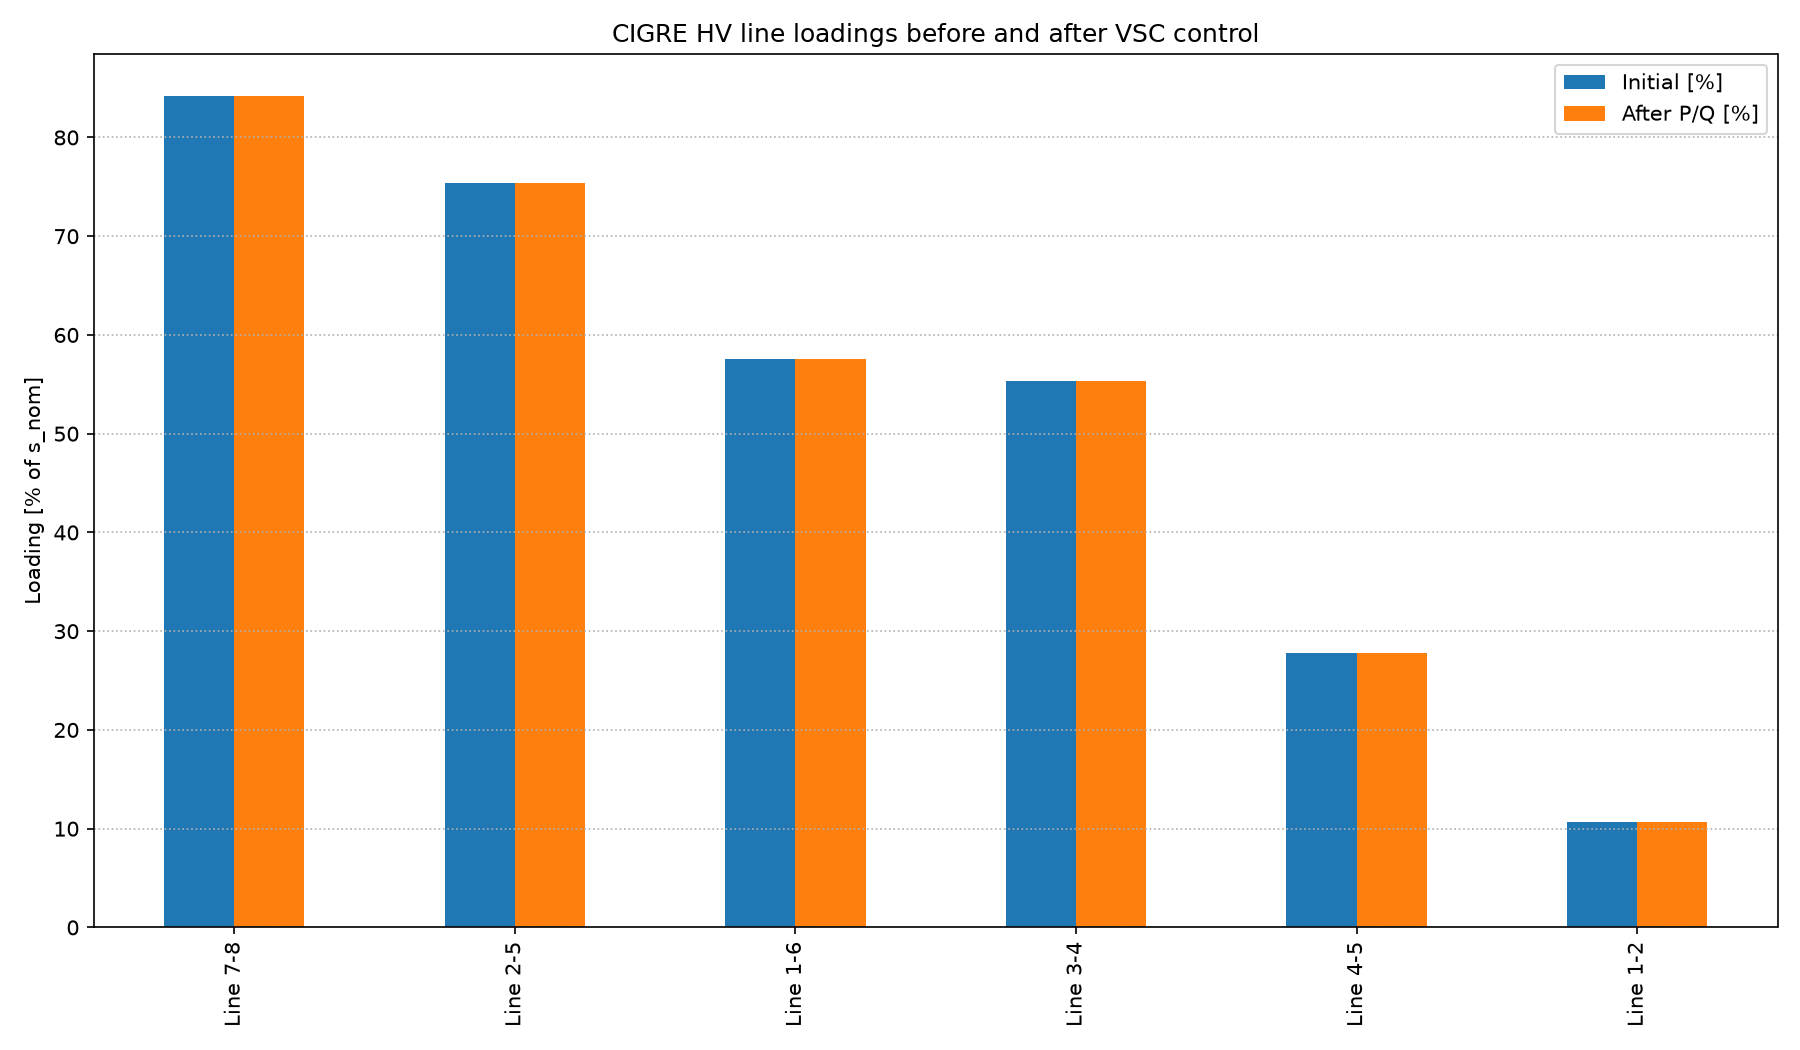
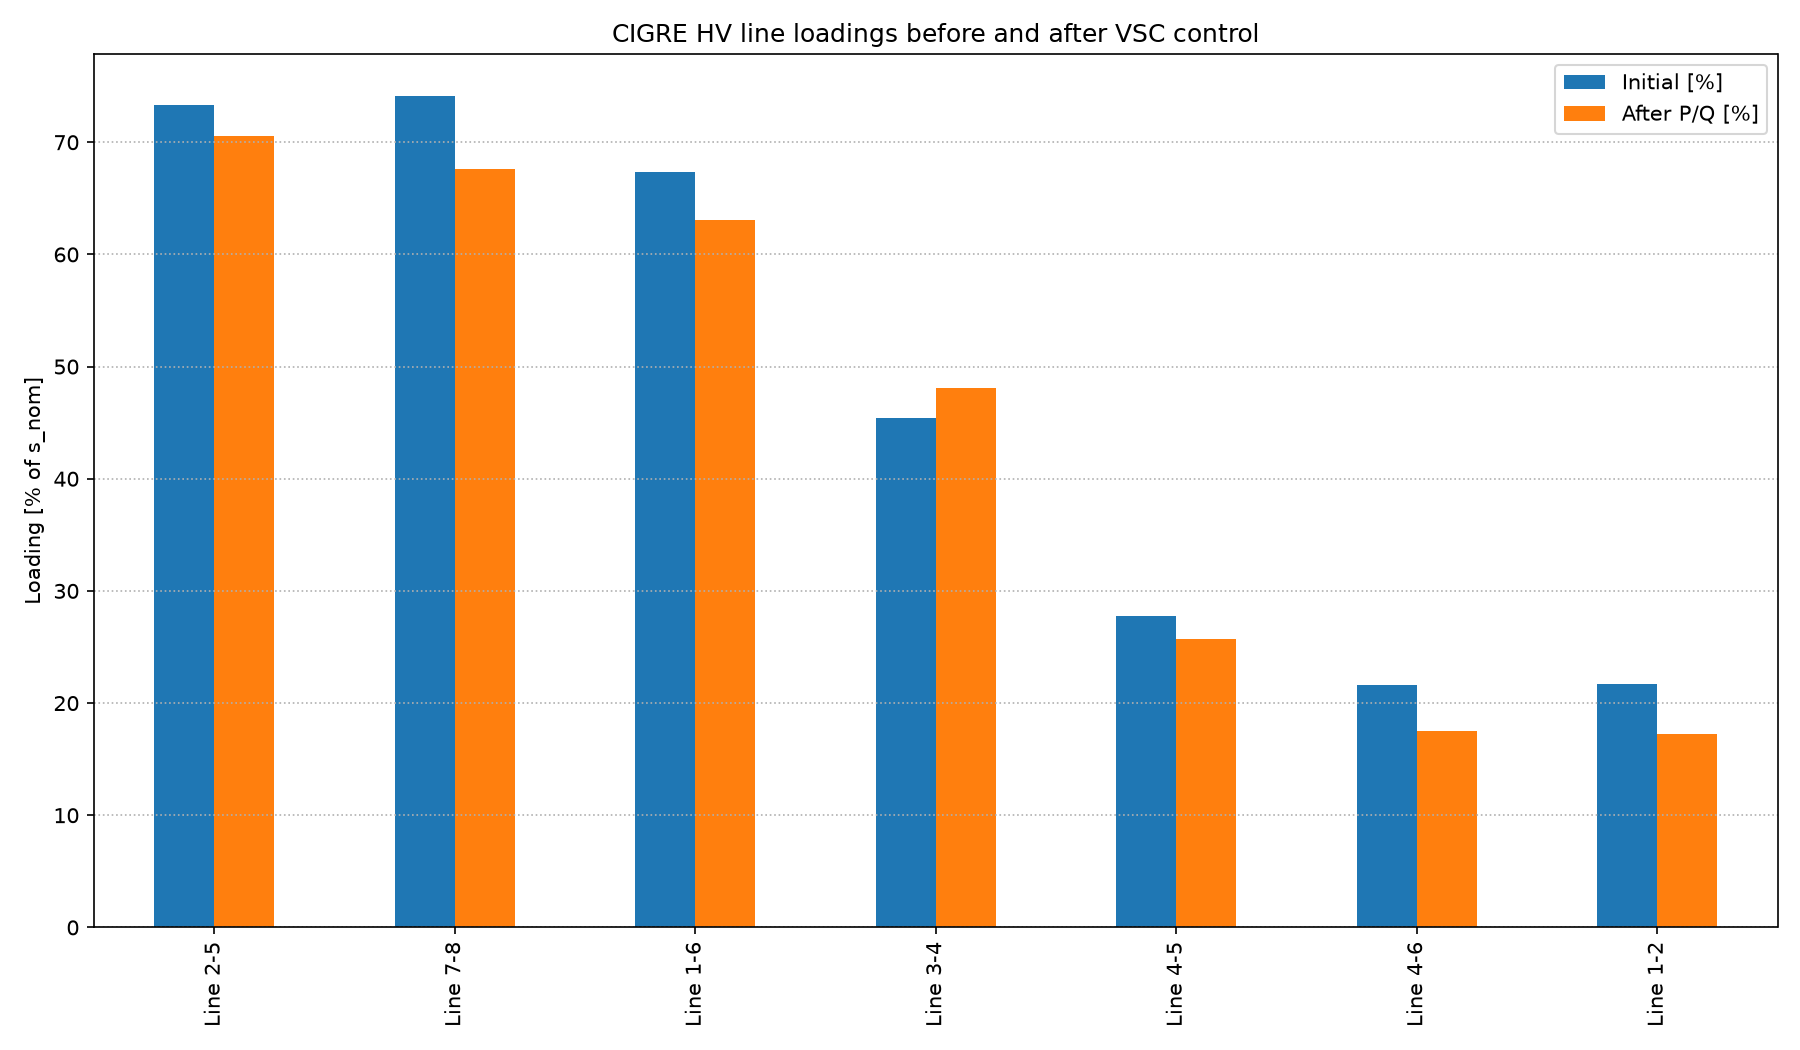
updated cigre benchmark grid in order to return to nearly similar values as initially

diff --git a/examples/cigre_benchmark_grid.py b/examples/cigre_benchmark_grid.py
@@ -1,5 +1,7 @@
-"""CIGRE HV with a VHL between Bus 7 and Bus 8.
+"""
+CIGRE HV Case 0 baseline, then VHL between Bus 7 and Bus 8.
 
+Case 0 is CSV-only AC PF (no Link/VSC), checked against thesis Tables 4.6 / 5.1 / 5.2.
 Combined P/Q control goes through VSCController. P-opt is P_Optimizer_V2 (SCIP),
 not linopy/Gurobi. N-1 is the heuristic in n1_guard.py, switched in ControllerConfig.
 
@@ -17,38 +19,111 @@ _REPO_ROOT = Path(__file__).resolve().parents[1]
 if str(_REPO_ROOT) not in sys.path:
     sys.path.insert(0, str(_REPO_ROOT))
 
-import matplotlib
+import matplotlib  # noqa: E402
 
 matplotlib.use("Agg")
 
-import matplotlib.pyplot as plt
-import numpy as np
-import pandas as pd
-import pypsa
+import matplotlib.pyplot as plt  # noqa: E402
+import numpy as np  # noqa: E402
+import pandas as pd  # noqa: E402
 
-from combined_control.VSCController import ControllerConfig, VSCController
+import pypsa  # noqa: E402
+from combined_control.VSCController import (  # noqa: E402
+    ControllerConfig,
+    VSCController,
+)
 
 CIGRE_CSV_DIR = Path(__file__).resolve().parent / "networks" / "cigre-hv-benchmark"
 
+# Thesis Table 4.6 — voltage magnitude [p.u.] and angle [deg]
+TABLE_46_V = pd.Series(
+    {
+        "Bus 1": 1.032,
+        "Bus 2": 1.006,
+        "Bus 3": 0.996,
+        "Bus 4": 0.950,
+        "Bus 5": 0.952,
+        "Bus 6": 0.986,
+        "Bus 7": 1.043,
+        "Bus 8": 1.042,
+        "Bus 9": 1.030,
+        "Bus 10": 1.030,
+        "Bus 11": 1.030,
+        "Bus 12": 1.030,
+    }
+)
+TABLE_46_ANG = pd.Series(
+    {
+        "Bus 1": -3.7,
+        "Bus 2": -2.0,
+        "Bus 3": -34.4,
+        "Bus 4": -39.5,
+        "Bus 5": -29.1,
+        "Bus 6": -32.1,
+        "Bus 7": -6.2,
+        "Bus 8": -31.9,
+        "Bus 9": 0.0,
+        "Bus 10": 1.6,
+        "Bus 11": -33.0,
+        "Bus 12": -27.7,
+    }
+)
+
+# Thesis Table 5.1 — Case 0 line loadings [%]; 3-4a/b → combined Line 3-4 at s_nom=500
+TABLE_51_LINE = pd.Series(
+    {
+        "Line 1-2": 21.80,
+        "Line 1-6": 67.40,
+        "Line 2-5": 73.20,
+        "Line 3-4": 45.58,
+        "Line 4-5": 27.78,
+        "Line 4-6": 21.63,
+        "Line 7-8": 74.21,
+    }
+)
+
+# Thesis Table 5.2 — Case 0 transformer loadings [%]
+TABLE_52_TRAFO = pd.Series(
+    {
+        "Transformer 1-7": 37.10,
+        "Transformer 3-8": 34.90,
+        "Transformer 9-1": 52.92,
+        "Transformer 10-2": 52.79,
+        "Transformer 11-3": 33.88,
+        "Transformer 12-6": 70.29,
+    }
+)
+
 
 def ac_loading(n: pypsa.Network, snapshot: object) -> pd.Series:
-    """Line loading [%] from |S| / s_nom. S from p0, q0 [MW, MVAr]."""
-    P = n.lines_t.p0.loc[snapshot]
-    Q = n.lines_t.q0.loc[snapshot]
-    return 100.0 * np.hypot(P, Q) / n.lines.s_nom
+    """
+    Line loading [%] from max(|S0|, |S1|) / s_nom [MVA].
+
+    Matches thesis Tables 5.1 (uses the higher-loaded line end).
+    """
+    S0 = np.hypot(n.lines_t.p0.loc[snapshot], n.lines_t.q0.loc[snapshot])
+    S1 = np.hypot(n.lines_t.p1.loc[snapshot], n.lines_t.q1.loc[snapshot])
+    return 100.0 * np.maximum(S0, S1) / n.lines.s_nom
 
 
 def trafo_loading(n: pypsa.Network, snapshot: object) -> pd.Series:
-    """Transformer loading [%] from |S| / s_nom."""
-    P = n.transformers_t.p0.loc[snapshot]
-    Q = n.transformers_t.q0.loc[snapshot]
-    return 100.0 * np.hypot(P, Q) / n.transformers.s_nom
+    """Transformer loading [%] from max(|S0|, |S1|) / s_nom [MVA]."""
+    S0 = np.hypot(n.transformers_t.p0.loc[snapshot], n.transformers_t.q0.loc[snapshot])
+    S1 = np.hypot(n.transformers_t.p1.loc[snapshot], n.transformers_t.q1.loc[snapshot])
+    return 100.0 * np.maximum(S0, S1) / n.transformers.s_nom
+
+
+def build_cigre_case0() -> pypsa.Network:
+    """CIGRE HV CSV only — Case 0 AC network, no Link/VSC."""
+    n = pypsa.Network()
+    n.import_from_csv_folder(CIGRE_CSV_DIR)
+    n.name = "CIGRE HV Case 0"
+    return n
 
 
 def build_cigre_vhl() -> pypsa.Network:
-    """CIGRE HV CSV plus one lossless-rated VHL on Bus 7–8 (in parallel with Line 7-8)."""
-    n = pypsa.Network()
-    n.import_from_csv_folder(CIGRE_CSV_DIR)
+    """CIGRE HV CSV plus one VHL on Bus 7–8 (in parallel with Line 7-8)."""
+    n = build_cigre_case0()
     n.name = "CIGRE HV + VHL 7-8"
 
     n.add(
@@ -61,22 +136,68 @@ def build_cigre_vhl() -> pypsa.Network:
         p_nom=500.0,
     )
     n.add(
-    "ControllableVSC",
-    "VSC 1",
-    bus="Bus 7",
+        "ControllableVSC",
+        "VSC 1",
+        bus="Bus 7",
         q_set=0.0,
-    link="Link 7-8",
-    side="bus0",
-)
+        link="Link 7-8",
+        side="bus0",
+    )
     n.add(
-    "ControllableVSC",
-    "VSC 2",
-    bus="Bus 8",
+        "ControllableVSC",
+        "VSC 2",
+        bus="Bus 8",
         q_set=0.0,
-    link="Link 7-8",
-    side="bus1",
-)
+        link="Link 7-8",
+        side="bus1",
+    )
     return n
+
+
+def print_case0_vs_tables(n: pypsa.Network, snapshot: object) -> None:
+    """Print Case 0 PF results and deltas vs thesis Tables 4.6 / 5.1 / 5.2."""
+    v = n.buses_t.v_mag_pu.loc[snapshot]
+    ang = n.buses_t.v_ang.loc[snapshot] * 180.0 / np.pi
+    line_ld = ac_loading(n, snapshot)
+    trafo_ld = trafo_loading(n, snapshot)
+
+    bus_cmp = pd.DataFrame(
+        {
+            "V [pu]": v.reindex(TABLE_46_V.index),
+            "V ref": TABLE_46_V,
+            "dV": v.reindex(TABLE_46_V.index) - TABLE_46_V,
+            "ang [deg]": ang.reindex(TABLE_46_ANG.index),
+            "ang ref": TABLE_46_ANG,
+            "dang": ang.reindex(TABLE_46_ANG.index) - TABLE_46_ANG,
+        }
+    )
+    line_cmp = pd.DataFrame(
+        {
+            "Loading [%]": line_ld.reindex(TABLE_51_LINE.index),
+            "ref [%]": TABLE_51_LINE,
+            "d [%]": line_ld.reindex(TABLE_51_LINE.index) - TABLE_51_LINE,
+        }
+    )
+    trafo_cmp = pd.DataFrame(
+        {
+            "Loading [%]": trafo_ld.reindex(TABLE_52_TRAFO.index),
+            "ref [%]": TABLE_52_TRAFO,
+            "d [%]": trafo_ld.reindex(TABLE_52_TRAFO.index) - TABLE_52_TRAFO,
+        }
+    )
+
+    print("\n=== Case 0 vs Table 4.6 (voltages) ===")
+    print(bus_cmp.round(4).to_string())
+    print(f"\nmax |dV| [pu]: {bus_cmp['dV'].abs().max():.4f}")
+    print(f"max |dang| [deg]: {bus_cmp['dang'].abs().max():.2f}")
+
+    print("\n=== Case 0 vs Table 5.1 (line loadings) ===")
+    print(line_cmp.round(2).to_string())
+    print(f"\nmax |d loading| [pp]: {line_cmp['d [%]'].abs().max():.2f}")
+
+    print("\n=== Case 0 vs Table 5.2 (trafo loadings) ===")
+    print(trafo_cmp.round(2).to_string())
+    print(f"\nmax |d loading| [pp]: {trafo_cmp['d [%]'].abs().max():.2f}")
 
 
 def print_state(n: pypsa.Network, snapshot: object, title: str) -> None:
@@ -93,19 +214,26 @@ def print_state(n: pypsa.Network, snapshot: object, title: str) -> None:
 
 
 def main() -> None:
+    # --- Case 0: pure AC, no VHL ---
+    n0 = build_cigre_case0()
+    snap0 = n0.snapshots[0]
+    n0.pf()
+    print_case0_vs_tables(n0, snap0)
+
+    # --- VHL path: Link 7-8 + VSCs + combined P/Q ---
     n = build_cigre_vhl()
     snap = n.snapshots[0]
     n.pf()
     loading_initial = ac_loading(n, snap)
 
     v_initial = n.buses_t.v_mag_pu.loc[snap]
-    print_state(n, snap, "Initial AC power flow")
+    print_state(n, snap, "Initial AC power flow (with VHL, p_set=0)")
 
     cfg = ControllerConfig(
         angle_limit_deg=25.0,
         max_line_loading=0.95,
         S_rated=400.0,
-        n1_guard_enable=False,
+        n1_guard_enable=True,
         n1_guard_margin=0.95,
         n1_guard_max_passes=3,
     )
